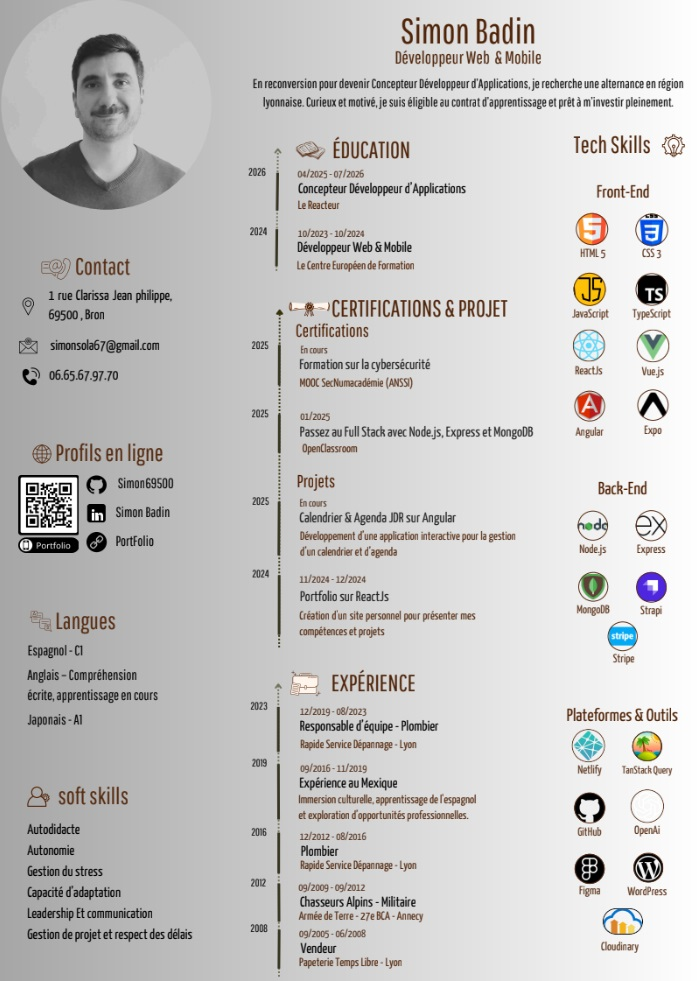
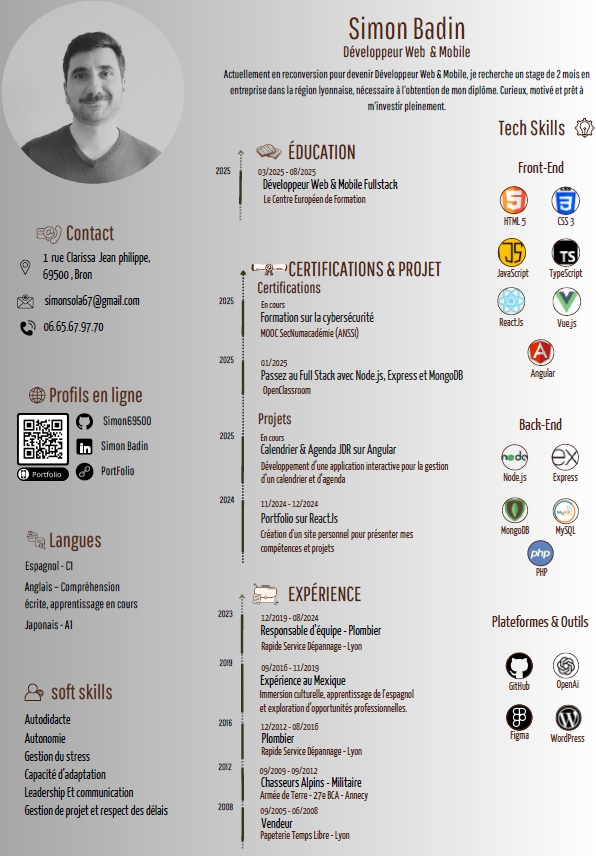
Upgrade CV + Presentation

diff --git a/src/sous-pages/About.jsx b/src/sous-pages/About.jsx
@@ -11,15 +11,14 @@ const About = () => {
             <article className='about_article'>
                 <img src={Icones.profil2} alt="Simon Badin" className="photo-about"/>
                 <p className='text_about'>
-    Bonjour, <br />
-    Je suis <strong>Simon Badin</strong>, actuellement en reconversion pour devenir développeur <strong>full-stack</strong>. Passionné par l'<em>informatique</em> et la <em>cybersécurité</em>, je cherche à m'investir dans <strong>un contrat d'apprentissage</strong> qui me permettra de renforcer mes compétences tout en apportant une <strong>valeur ajoutée</strong> à des projets concrets. <br /><br />
-    Mon parcours professionnel m’a permis d’acquérir des compétences transférables uniques. Après avoir dirigé des équipes en <strong>plomberie</strong> et servi en tant que <strong>Chasseur Alpin</strong> dans l’armée, j’ai appris à <em> gérer des projets complexes</em>, à <em>respecter des délais serrés</em> et à <em>résoudre des problèmes sous pression</em>.
-    <br /><br />
-     Ces expériences m’ont aussi permis de développer un fort <span>esprit d’équipe</span>, un sens de <span>l’adaptation</span>, et un <span>leadership naturel</span>. Autant de qualités que je mets aujourd’hui au service de ma reconversion dans le <em>développement</em>. 
-     <br /><br />
-    Ma reconversion n’est pas un hasard, elle découle d’une réflexion profonde et d’une volonté de changement après des soucis de santé qui m’ont forcé à quitter le <strong>BTP</strong>. Cette pause m’a permis de me réinventer et de découvrir ma <em>passion</em> pour le <em>développement web</em>, un secteur où je peux apporter des solutions innovantes tout en continuant à apprendre et à évoluer. La <em>cybersécurité</em> m’attire particulièrement car elle répond à des enjeux cruciaux pour les entreprises et les utilisateurs. Je veux contribuer à la <strong>sûreté</strong> des systèmes informatiques et relever les défis que ce domaine passionnant propose. <br /><br />
-    Aujourd'hui, je suis déterminé à mettre mon <strong>expérience</strong>, ma capacité d'<span>apprentissage</span> et mes <span>qualités humaines</span> au service de vos projets. Si vous cherchez un développeur <strong>rigoureux</strong>, <strong>motivé</strong> et capable de s’adapter rapidement aux défis, n’hésitez pas à me contacter. Je suis prêt à me lancer dans cette nouvelle aventure professionnelle et à apporter ma vision unique à votre équipe. <br /><br />
-</p>
+                Bonjour, <br />
+                Je suis <strong>Simon Badin </strong>, <strong> développeur fullstack web & mobile en reconversion. </strong> 
+                Fort d’une expérience en gestion de projets complexes dans le BTP et l’armée, je mets aujourd’hui ma rigueur, 
+                mon esprit d’équipe et mon leadership au service du développement web.
+                Je recherche un <strong> stage en entreprise </strong>dans la région lyonnaise pour valider ma formation et contribuer à des projets concrets. 
+                Curieux et motivé, je suis prêt à relever de nouveaux défis techniques.
+                                </p>
+
 
 
 

diff --git a/src/sous-pages/Competences.jsx b/src/sous-pages/Competences.jsx
@@ -34,7 +34,7 @@ const Competences = () => {
                 {/* Partie CV */}
                 <div className="contenair-cv">
                     <h3 className="cv-title">Mon CV</h3>
-                    <a href="https://drive.google.com/file/d/1qXM_4IZcIfzm60GJINFUNyqH8YAh5XFC/view?usp=sharing" target="_blank" rel="noopener noreferrer">
+                    <a href="https://drive.google.com/file/d/1WezKAjfjamqCfPSN4Ke2mGqWt14Gz5HU/view?usp=drive_link" target="_blank" rel="noopener noreferrer">
                         <img className="cv-img" src={CV} alt="présentation du CV" />
                     </a>
 
@@ -46,31 +46,6 @@ const Competences = () => {
                             alignItems: 'center', // Centrer verticalement
                         }}
                     >
-                                 <Button className="Button-Competence"
-                        component="a"
-                        role={undefined}
-                        variant="contained"
-                        tabIndex={-1}
-                        startIcon={<CloudUploadIcon />}
-                        sx={{
-                            background: "#5D5D5D",
-                            color: "#D1D1D1",
-                            margin: '10px',
-                            width: '180px',
-                            borderRadius: '50px',
-                            border:" solid , 1px ,#8F8F8F"                           
-                        }}
-                        href="https://drive.google.com/file/d/1wkzCETFFy_1D-wHKHgjNpxZWUI1BnyKo/view?usp=sharing"
-                        download="Le_Reacteur_Programme_Alternance.pdf"
-                        target='_blanck'
-                    >
-                        En Savoir +
-                    <VisuallyHiddenInput
-                    type="file"
-                    onChange={(event) => console.log(event.target.files)}
-                    multiple
-                    />
-                    </Button>
                     <Button className="Button-Competence"
                         component="a"
                         role={undefined}
@@ -85,7 +60,7 @@ const Competences = () => {
                             borderRadius: '50px',
                             border:" solid , 1px ,#8F8F8F"                       
                         }}
-                        href="https://drive.google.com/file/d/1qXM_4IZcIfzm60GJINFUNyqH8YAh5XFC/view?usp=sharing"
+                        href="https://drive.google.com/file/d/1WezKAjfjamqCfPSN4Ke2mGqWt14Gz5HU/view?usp=drive_link"
                         download="CV-BADIN-Simon.pdf"
                         target='_blanck'
                     >

diff --git a/src/Pages/Home.jsx b/src/Pages/Home.jsx
@@ -49,36 +49,9 @@ const Home = () => {
                     {/* Partie Recherche Emploi */}
                     <div id='Actual'>    
                         <h3 className='title-actual'>Actuellement : </h3>
-                        <p><a className='link-ecole' href="https://www.lereacteur.io/formation-alternance/concepteur-developpeur-applications/" target='_blank'>Le Reacteur</a> - Formation de <strong className='textStrong'>Développeur FullStack</strong> - "début le 28 avril 2025", sur 10 semaines. <br/>  
-                            Suivie d'une formation de <strong className='textStrong'>Concepteur Développeur d'Applications</strong> - "début mi-juillet 2025", en alternance <em>(contrat d'apprentissage)</em>.  
+                        <p>Le Centre Européen de Formation - Formation de <strong className='textStrong'>Développeur FullStack</strong> - en cours de formation <br/> <br /> 
+                            Suivie d'un   <strong className='textStrong'>stage en entreprise</strong> - "a partir de Septembre 2025", sur une durée de 2 mois.  
                         </p>
-                        <Button
-                        component="a"
-                        role={undefined}
-                        variant="contained"
-                        tabIndex={-1}
-                        startIcon={<CloudUploadIcon />}
-                        sx={{
-                            background: "#3A3A3A",
-                            color: "#D1D1D1",
-                            margin: '10px',
-                            width: '180px',
-                            borderRadius: '50px',
-                            border:" solid , 1px ,#8F8F8F" ,                         
-                        }}
-                        className='buttonActual'
-                        href="https://drive.google.com/file/d/1wkzCETFFy_1D-wHKHgjNpxZWUI1BnyKo/view?usp=sharing"
-                        download="Le_Reacteur_Programme_Alternance.pdf"
-                        target='_blanck'
-                    >
-                        En Savoir +
-                    <VisuallyHiddenInput
-                    type="file"
-                    onChange={(event) => console.log(event.target.files)}
-                    multiple
-                    />
-                    </Button>
-
                     </div>
 
                     {/* Partie Mes compétences + Skill */} 

diff --git a/src/Component/Skills.jsx b/src/Component/Skills.jsx
@@ -15,11 +15,10 @@ function SkillBar({ skill }) {
 function Skills() {
     // Compétences Frontend
     const skillsFront = [
-        { name: 'ReactJS-Native', img: Icones.react },
+        { name: 'ReactJS', img: Icones.react },
         { name: 'Angular', img: Icones.angular},
         { name: 'Next.js', img: Icones.nextjs },
         { name: 'Vue.js', img: Icones.vue },
-        { name: 'Expo', img: Icones.expo },
         { name: 'JavaScript', img: Icones.scriptJava },
         { name: 'TypeScript', img: Icones.typescript },
         { name: 'CSS3 / SASS', img: Icones.css3 },
@@ -31,19 +30,16 @@ function Skills() {
         { name: 'Node.js', img: Icones.nodejs },
         { name: 'Express', img: Icones.express },
         { name: 'MongoDB', img: Icones.mongodb },
-        { name: 'Strapi', img: Icones.strapi },
-        { name: 'Stripe', img: Icones.stripe },
+        { name: 'MySQL', img: Icones.mysql },
+        { name: 'PHP', img: Icones.php },
     ];
 
     // Outils et Plateformes
     const skillsTools = [
         { name: 'GitHub', img: Icones.github },
-        { name: 'Netlify', img: Icones.netlify },
-        { name: 'TanStack Query', img: Icones.tanStackQuery },
-        { name: 'Cloudinary', img: Icones.cloudinary },
-        { name: 'Retool', img: Icones.retool },
         { name: 'OpenAI', img: Icones.openai },
         { name: 'WordPress', img: Icones.wordpress},
+        { name: 'Figma', img: Icones.figma },
     ];
 
     return (

diff --git a/src/Component/Icons/Icones.js b/src/Component/Icons/Icones.js
@@ -25,6 +25,8 @@ import openai from '../../asset/img-logo/open.svg';
 import typescript from '../../asset/img-logo/typescript.svg';
 import expo from '../../asset/img-logo/expo.svg';
 import nextjs from '../../asset/img-logo/nextjs.svg';
+import mysql from '../../asset/img-logo/mysql.svg';
+import php from '../../asset/img-logo/php.png';
 
 // Utilisation d'un objet pour organiser les icônes
 export const Icones = {
@@ -55,4 +57,6 @@ export const Icones = {
   typescript,
   expo,
   nextjs,
+  mysql,
+  php,
 };
